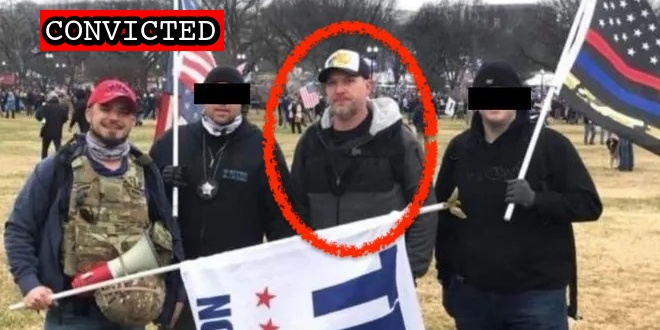
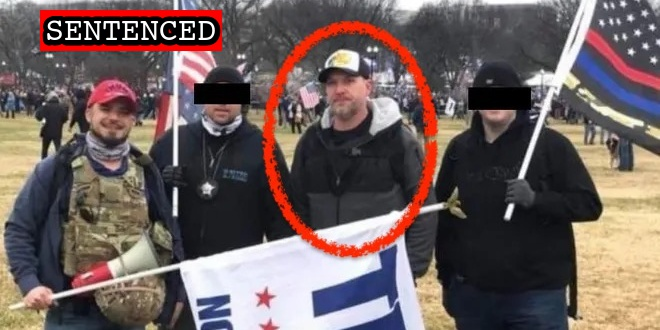
Missing sentences (part 1)

Changed region(s): [[0.1515, 0.0303, 0.2727, 0.1515], [0.0606, 0.0303, 0.1212, 0.1515], [0.3333, 0.0303, 0.3636, 0.1515]]

diff --git a/docs/_suspects/eric-barber.md b/docs/_suspects/eric-barber.md
@@ -4,18 +4,18 @@ lastName: Barber
 hashtag: EricBarber
 aka:
 residence: West Virginia
-status: Convicted
+status: Sentenced
 date: 2021-02-16
 charged: 2021-02-16
 indicted:
 convicted: 2021-12-16
 acquitted:
-sentenced:
+sentenced: 2022-06-14
 dismissed:
 deceased:
 plea_hearing: 2021-12-16
 trial_date:
-sentencing: 2022-06-01
+sentencing: 2022-06-14
 age: 41
 occupation: Former Councilman
 affiliations:
@@ -36,12 +36,17 @@ published: true
 caseNumber: 1:21-cr-228
 videos:
 charges:
-- code: 40 USC § 5104(e)(2)(G)
-  title: Parading, demonstrating or picketing in a Capitol building
-  url: https://www.law.cornell.edu/uscode/text/40/5104
-  felony: false
+  - code: 40 USC § 5104(e)(2)(G)
+    title: Parading, demonstrating or picketing in a Capitol building
+    url: https://www.law.cornell.edu/uscode/text/40/5104
+    felony: false
 sentence:
+  - 45 days in prison
+  - 24 months probation
+  - $500 restitution
+  - $52.95 restitution (C-SPAN)
 ---
+
 - [News Report](https://www.msn.com/en-us/news/us/west-virginia-man-charged-with-stealing-cspan-equipment-during-capitol-riots/ar-BB1efFsk)
 - [Statement of Facts](https://www.justice.gov/usao-dc/case-multi-defendant/file/1378386/download)
 - [Information](https://www.justice.gov/usao-dc/case-multi-defendant/file/1378381/download)

diff --git a/docs/_suspects/daniel-herendeen.md b/docs/_suspects/daniel-herendeen.md
@@ -4,13 +4,13 @@ lastName: Herendeen
 hashtag: DanielHerendeen
 aka:
 residence: Michigan
-status: Convicted
+status: Sentenced
 date: 2021-03-18
 charged: 2021-03-18
 indicted: 2021-04-02
 convicted: 2021-12-17
 acquitted:
-sentenced:
+sentenced: 2022-04-01
 dismissed:
 deceased:
 plea_hearing: 2021-12-17
@@ -36,12 +36,17 @@ published: true
 caseNumber: 1:21-cr-278
 videos:
 charges:
-- code: 18 USC § 1752(a)(1)
-  title: Entering a restricted building or grounds
-  url: https://www.law.cornell.edu/uscode/text/18/1752
-  felony: false
+  - code: 18 USC § 1752(a)(1)
+    title: Entering a restricted building or grounds
+    url: https://www.law.cornell.edu/uscode/text/18/1752
+    felony: false
 sentence:
+  - 14 days in prison
+  - 60 days home confinement
+  - 36 months probation
+  - $500 restitution
 ---
+
 - [News Report](https://www.detroitnews.com/story/news/local/detroit-city/2021/03/18/us-capitol-riot-leads-charges-against-two-more-michigan-men/4746118001/)
 - [Complaint](https://www.justice.gov/usao-dc/case-multi-defendant/file/1378831/download)
 - [Statement of Facts](https://www.justice.gov/usao-dc/case-multi-defendant/file/1378836/download)

diff --git a/docs/_suspects/eric-von-bernewitz.md b/docs/_suspects/eric-von-bernewitz.md
@@ -4,13 +4,13 @@ lastName: Von Bernewitz
 hashtag: EricVonBernewitz
 aka:
 residence: Virginia
-status: Convicted
+status: Sentenced
 date: 2021-03-24
 charged: 2021-03-24
 indicted:
 convicted: 2022-01-20
 acquitted:
-sentenced:
+sentenced: 2022-04-26
 dismissed:
 deceased:
 plea_hearing: 2022-01-20
@@ -37,7 +37,12 @@ caseNumber: 1:21-cr-307
 videos:
 charges:
 sentence:
+  - 60 days home confinement
+  - 24 months probation
+  - $1000 fine
+  - $500 restitution
 ---
+
 - [News Report](https://www.wavy.com/news/virginia/2-virginia-beach-brothers-charged-with-entering-us-capitol-during-january-6-riot/)
 - [Statement of Facts](https://www.justice.gov/usao-dc/case-multi-defendant/file/1393396/download)
 - [Information](https://www.justice.gov/usao-dc/case-multi-defendant/file/1393391/download)
